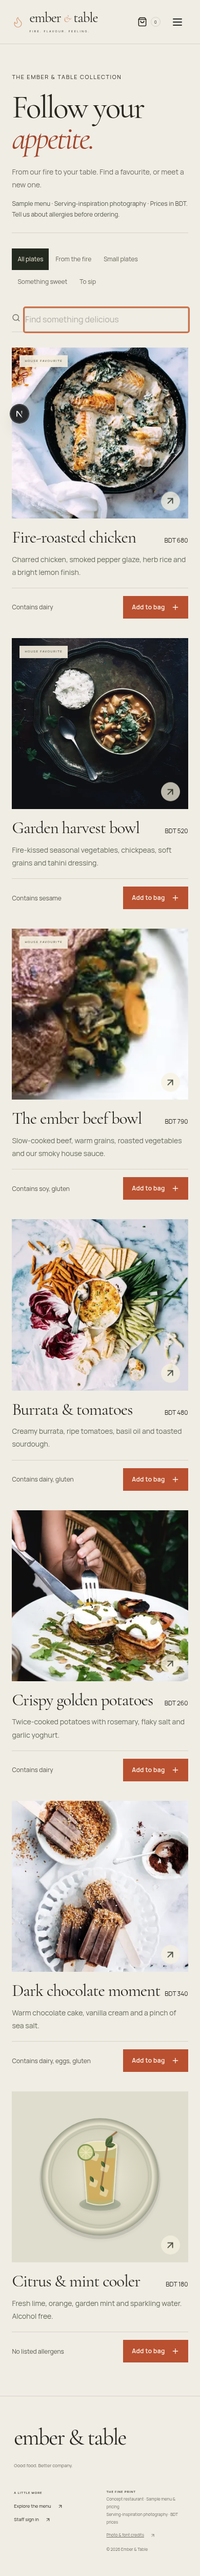
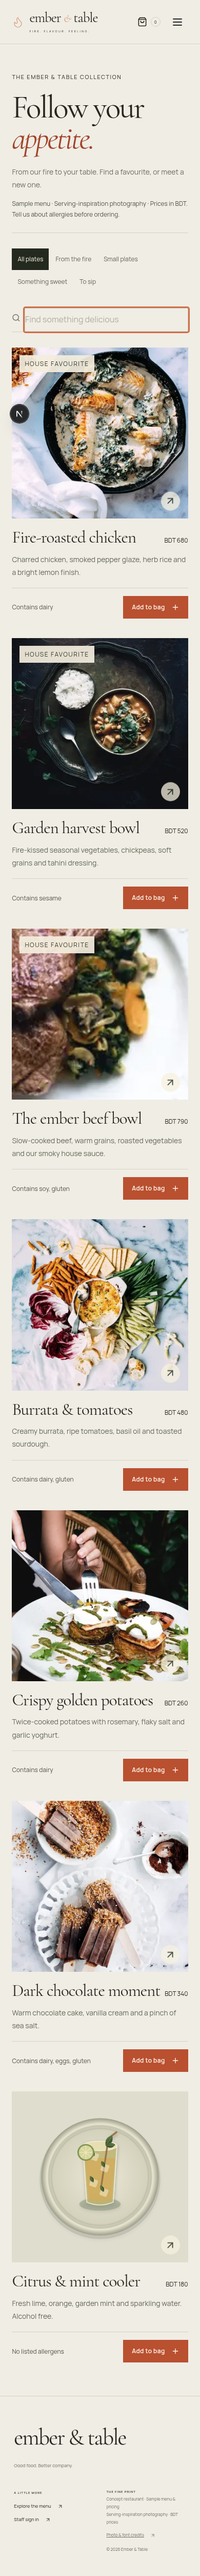
Include mobile menu badges in readability fixes and final evidence

diff --git a/tests/e2e/qa-fixes.spec.ts b/tests/e2e/qa-fixes.spec.ts
@@ -67,6 +67,7 @@ test("390px menu text is readable and the beef crop stays inside the card", asyn
   await page.locator(".menu-card").first().waitFor();
   for (const [selector, minimum] of [
     [".category-tabs button", 12],
+    [".food-tag", 12],
     [".menu-card-body > p", 14],
     [".menu-card-bottom .allergen-note", 12],
     [".menu-card-bottom .button", 12],

diff --git a/src/app/customer.css b/src/app/customer.css
@@ -1683,6 +1683,9 @@
   .customer-site .menu-card-image {
     aspect-ratio: 1.03;
   }
+  .customer-site .food-tag {
+    font-size: 12px;
+  }
   .customer-site .menu-card-body {
     padding-top: 20px;
   }
